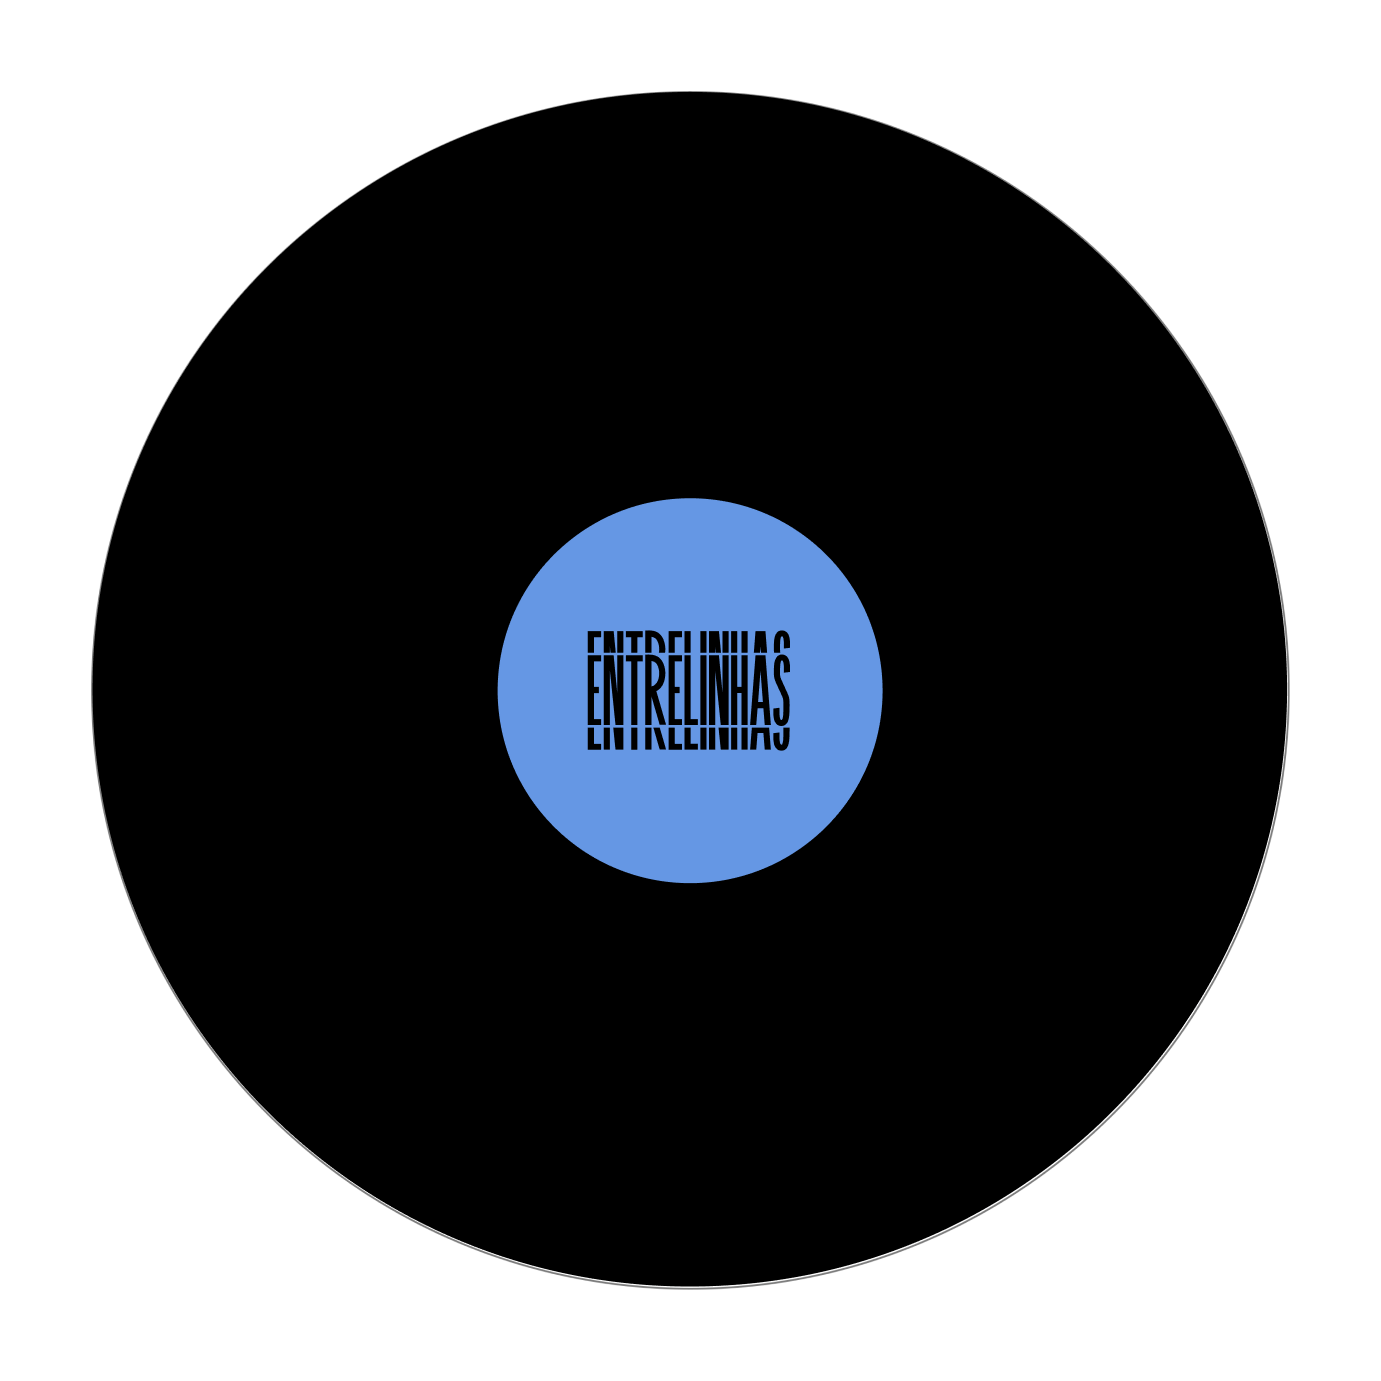
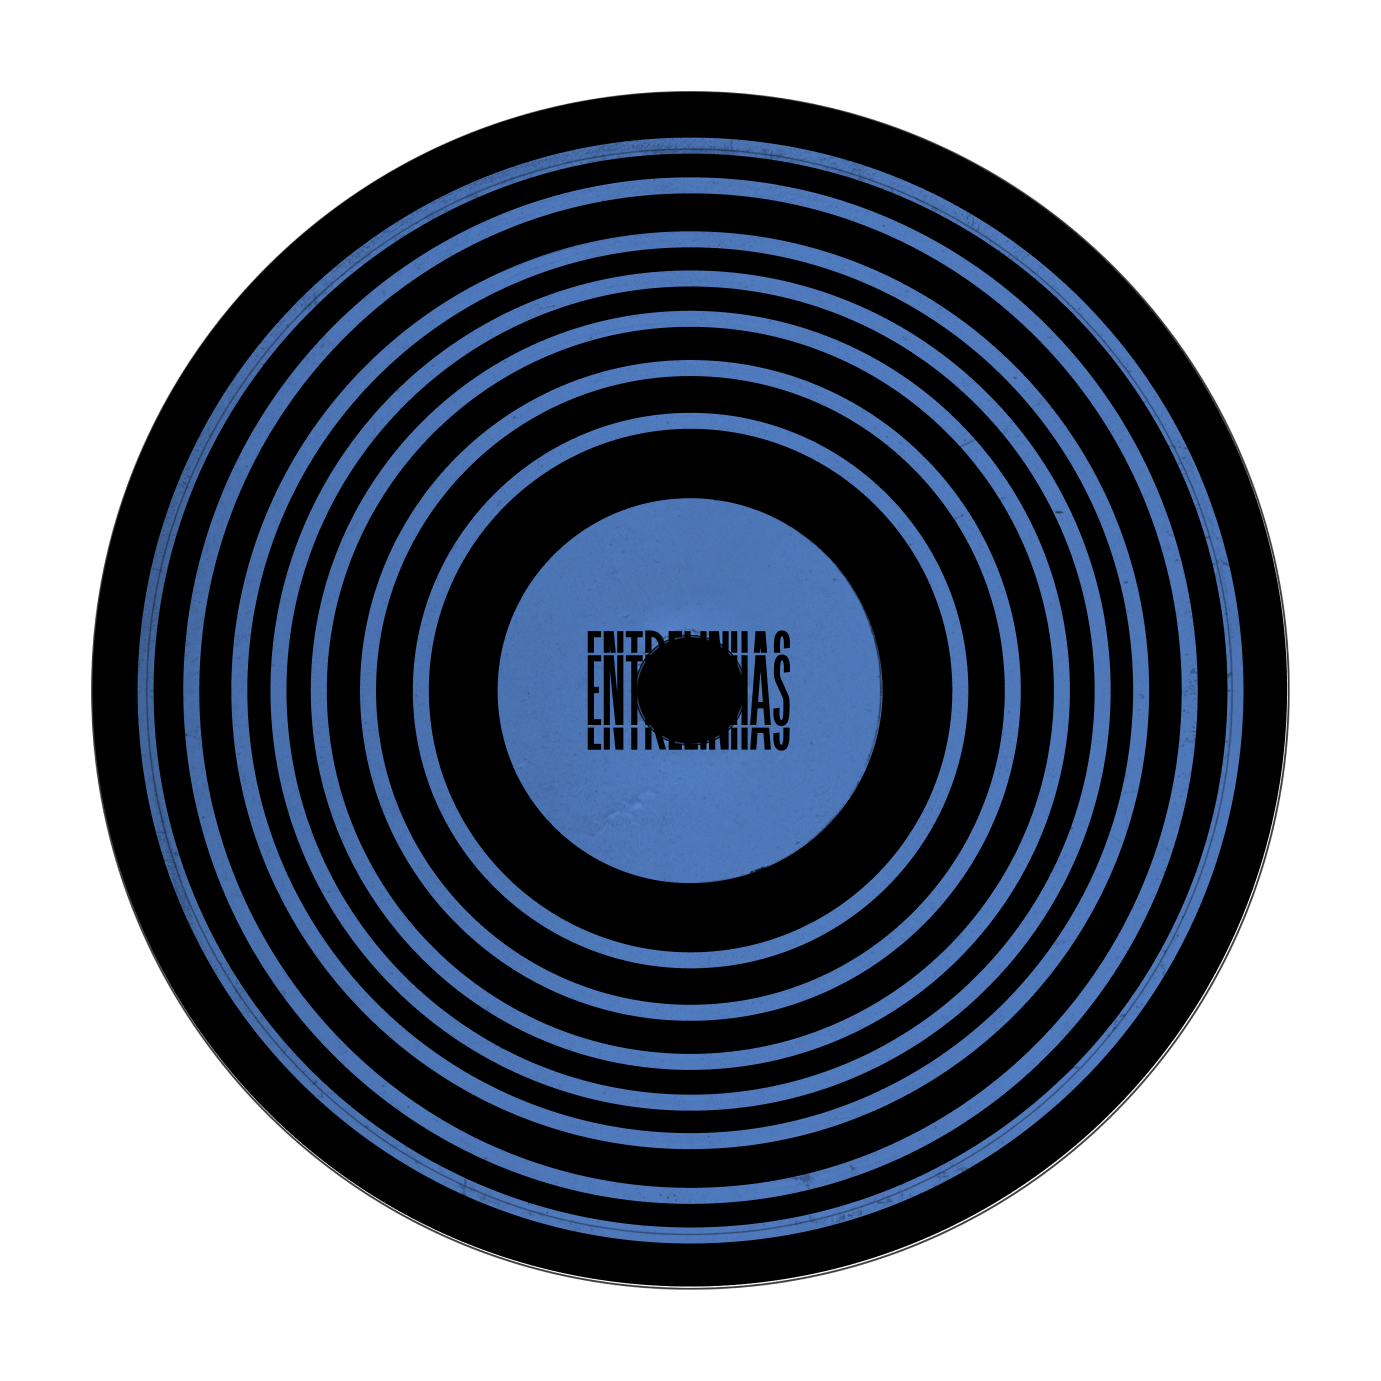
adjusts

Changed region(s): [[0.0934, 0.0934, 0.903, 0.903]]

diff --git a/src/app/home/home.component.html b/src/app/home/home.component.html
@@ -71,8 +71,8 @@
         </div>
     </section>
 
-    <section class="mt-40">
-        <div class="container-sm">
+    <section class="mt-40 ">
+        <div class="container-sm position-relative">
             <h1 class="ff-az fs-a1 fn-color-blue mb-4">MÚSICA PORTUGUESA</h1>
             <div class="ff-az fn-color-blue border-top border-bottom bd-theme border-color-blue pt-3">
                 <p class="border-top border-bottom bd-theme border-color-blue">
@@ -100,11 +100,17 @@
                     José Afonso
                 </p>
             </div>
+            <div class="overlay-vinil-liso pt pointer" [routerLink]="['/playlist-nao-censurada-portugal']">
+                <img src="../../assets/img/vinil-azul-liso.png" alt="">
+            </div>
+            <div class="overlay-vinil-listrado pt pointer" [routerLink]="['/playlist-censurada-portugal']">
+                <img src="../../assets/img/vinil-azul-listrado.png" alt="">
+            </div>
         </div>
     </section>
 
-    <section class="mt-40">
-        <div class="container-sm text-end">
+    <section class="mt-60 ">
+        <div class="container-sm text-end position-relative">
             <h1 class="ff-az fs-a1 fn-color-green mb-4">MÚSICA BRASILEIRA</h1>
             <div class="ff-az fn-color-green border-top border-bottom bd-theme border-color-green pt-3">
                 <p class="border-top border-bottom bd-theme border-color-green">
@@ -129,57 +135,58 @@
                     Geraldo Vandré
                 </p>
             </div>
+            <div class="overlay-vinil-liso br pointer" [routerLink]="['/playlist-nao-censurada-brasil']">
+                <img src="../../assets/img/vinil-verde-liso.png" alt="">
+            </div>
+            <div class="overlay-vinil-listrado br pointer" [routerLink]="['/playlist-censurada-brasil']">
+                <img src="../../assets/img/vinil-verde-listrado.png" alt="">
+            </div>
         </div>
     </section>
 
-    <section class="mt-40">
+    <section class="mt-60">
         <div class="container-sm">
             <h1 class="ff-az fs-a1 fn-color mb-4">LOJA</h1>
             <div class="row">
                 <div class="col-12 mb-5">
-                    <div class="border-top bd-theme border-color py-2">
-                        <img class="w-100 mh-550 object-fit-cover"
-                            src="https://dreamsthirdeyeinnovativ.in/images/blog/1.jpg" alt="">
+                    <div class="border-top bd-theme border-color py-2 px-5">
+                        <img class="w-100 mh-550 object-fit-cover" src="../../assets/img/loja-1.png" alt="">
                     </div>
                     <p class="ff-az fn-color fs-4 text-center border-top bd-theme border-color pt-3 border-15">KIT
                         EDIÇÃO
                         ESPECIAL<br>ENTRELINHAS</p>
                 </div>
                 <div class="col-6 mb-5">
-                    <div class="border-top bd-theme border-color py-2">
-                        <img class="w-100 mh-550 object-fit-cover"
-                            src="https://dreamsthirdeyeinnovativ.in/images/blog/1.jpg" alt="">
+                    <div class="border-top bd-theme border-color py-2 px-5">
+                        <img class="w-100 mh-550 object-fit-cover" src="../../assets/img/loja-2.png" alt="">
                     </div>
                     <p class="ff-az fn-color fs-4 text-center border-top bd-theme border-color pt-3 border-15">DUPLA
                         LP<br>
                         ENTRELINHAS PT</p>
                 </div>
                 <div class="col-6 mb-5">
-                    <div class="border-top bd-theme border-color py-2">
-                        <img class="w-100 mh-550 object-fit-cover"
-                            src="https://dreamsthirdeyeinnovativ.in/images/blog/1.jpg" alt="">
+                    <div class="border-top bd-theme border-color py-2 px-5">
+                        <img class="w-100 mh-550 object-fit-cover" src="../../assets/img/loja-3.png" alt="">
                     </div>
                     <p class="ff-az fn-color fs-4 text-center border-top bd-theme border-color pt-3 border-15">DUPLA
                         LP<br>
                         ENTRELINHAS BR</p>
                 </div>
                 <div class="col-6 mb-5">
-                    <div class="border-top bd-theme border-color py-2">
-                        <img class="w-100 mh-550 object-fit-cover"
-                            src="https://dreamsthirdeyeinnovativ.in/images/blog/1.jpg" alt="">
+                    <div class="border-top bd-theme border-color py-2 px-5">
+                        <img class="w-100 mh-550 object-fit-cover" src="../../assets/img/loja-4.png" alt="">
                     </div>
                     <p class="ff-az fn-color fs-4 text-center border-top bd-theme border-color pt-3 border-15">
                         ENTRELINHAS<br>
-                        PT T-SHIRT</p>
+                        T-SHIRT</p>
                 </div>
                 <div class="col-6 mb-5">
-                    <div class="border-top bd-theme border-color py-2">
-                        <img class="w-100 mh-550 object-fit-cover"
-                            src="https://dreamsthirdeyeinnovativ.in/images/blog/1.jpg" alt="">
+                    <div class="border-top bd-theme border-color py-2 px-5">
+                        <img class="w-100 mh-550 object-fit-cover" src="../../assets/img/loja-6.png" alt="">
                     </div>
                     <p class="ff-az fn-color fs-4 text-center border-top bd-theme border-color pt-3 border-15">
                         ENTRELINHAS<br>
-                        BR T-SHIRT</p>
+                        CARTAZ</p>
                 </div>
             </div>
         </div>

diff --git a/src/app/playlist/playlist.component.html b/src/app/playlist/playlist.component.html
@@ -5,8 +5,19 @@
             [class.border-color-green]="pagina == 3 || pagina == 4"
             [class.border-color-blue]="pagina == 1 || pagina == 2">
             VOLTAR</p>
+        @if (pagina == 1) {
+        <img class="absolute-img-vinil" src="../../assets/img/vinil-azul-listrado.png" alt="">
+
+        }@else if (pagina == 2) {
+
+        <img class="absolute-img-vinil" src="../../assets/img/vinil-azul-liso.png" alt="">
+        }@else if (pagina == 3) {
 
         <img class="absolute-img-vinil" src="../../assets/img/vinil-verde-listrado.png" alt="">
+        }@else if (pagina == 4) {
+
+        <img class="absolute-img-vinil" src="../../assets/img/vinil-verde-liso.png" alt="">
+        }
     </div>
     <div class="container-sm mb-8">
         @if (pagina == 1 || pagina == 3) {

diff --git a/src/app/home/home.component.scss b/src/app/home/home.component.scss
@@ -20,6 +20,34 @@
     }
 }
 
+.br.overlay-vinil-listrado {
+    position: absolute;
+    top: -50%;
+    left: -51%;
+    z-index: 1;
+}
+
+.br.overlay-vinil-liso {
+    position: absolute;
+    top: -50%;
+    z-index: 2;
+    left: -78%;
+}
+
+.pt.overlay-vinil-listrado {
+    position: absolute;
+    top: -50%;
+    right: -51%;
+    z-index: 1;
+}
+
+.pt.overlay-vinil-liso {
+    position: absolute;
+    top: -50%;
+    z-index: 2;
+    right: -78%;
+}
+
 
 .rotate-8 {
     transform: rotate(-6deg);

diff --git a/src/assets/_theme.scss b/src/assets/_theme.scss
@@ -33,6 +33,10 @@ main {
     margin-top: 40rem;
 }
 
+.mt-60 {
+    margin-top: 60rem;
+}
+
 .fs-a1 {
     font-size: 4rem;
 }
@@ -43,6 +47,10 @@ main {
 
 .mh-550 {
     max-height: 550px;
+}
+
+.mh-650 {
+    max-height: 650px;
 }
 
 .h-600 {
@@ -101,7 +109,7 @@ body {
 }
 
 body {
-    background-color: $dark;
+    overflow-x: hidden;
 }
 
 html,

diff --git a/src/app/footer/footer.component.html b/src/app/footer/footer.component.html
@@ -1,4 +1,4 @@
-<footer class="mt-4 container-sm">
+<footer class="mt-20 container-sm">
     <div class="line bg-color border-top border-bottom bd-theme border-secondary-color"></div>
     <div class="line bg-color border-top border-bottom bd-theme border-secondary-color"></div>
 </footer>
